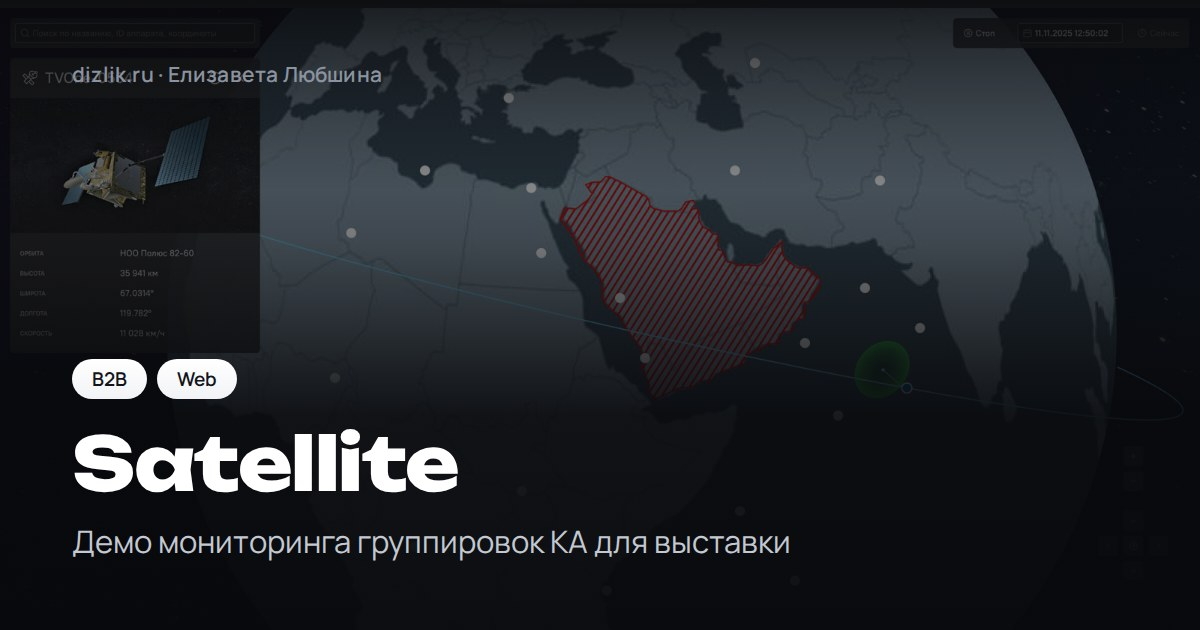
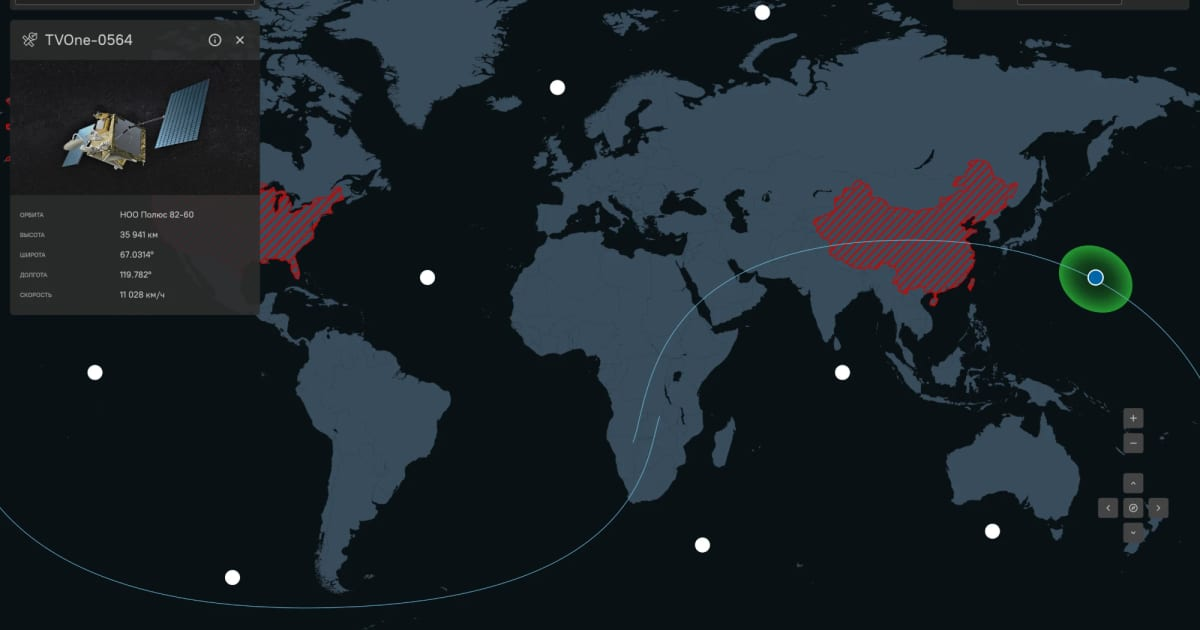
New Satellite cover: map view with the selected craft
Claude-Session: https://claude.ai/code/session_01Ffz7rezJQZF1CdbUwGJXMK

diff --git a/cases/satellite.html b/cases/satellite.html
@@ -64,7 +64,7 @@
       <p class="case-hero__subtitle">Демо-продукт для международной выставки, который показывает работу спутниковой группировки без профильной подготовки.</p>
 
       <figure class="case-cover">
-        <img src="/src/assets/cases/satellite/cover.webp" alt="Интерфейс Satellite: выбранный аппарат, орбита и зона покрытия на глобусе" width="2000" height="1250" fetchpriority="high" />
+        <img src="/src/assets/cases/satellite/cover.webp" alt="Интерфейс Satellite: выбранный аппарат, орбита и зона покрытия на карте" width="2000" height="1250" fetchpriority="high" />
         <span class="case-chips"><span class="tunnel__tag">B2B</span><span class="tunnel__tag">Web</span></span>
       </figure>
     </section>
